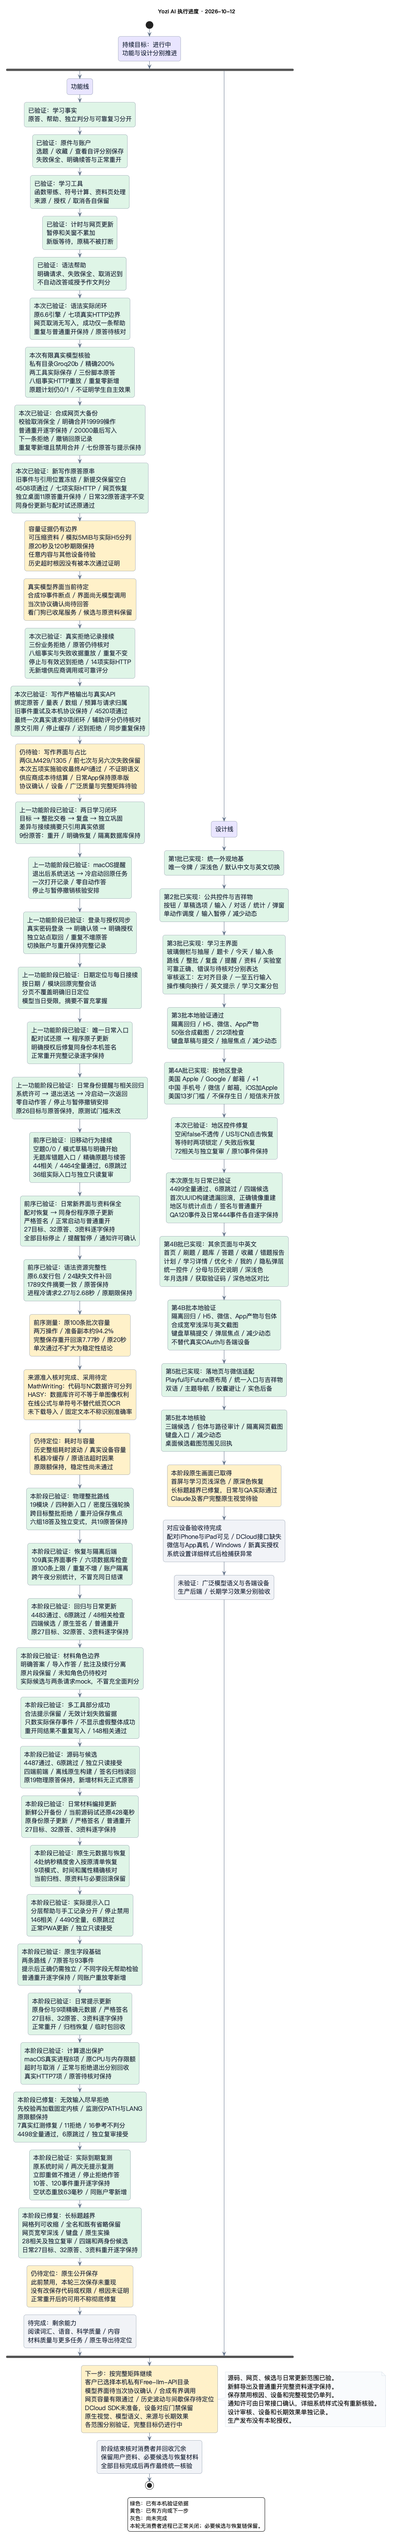
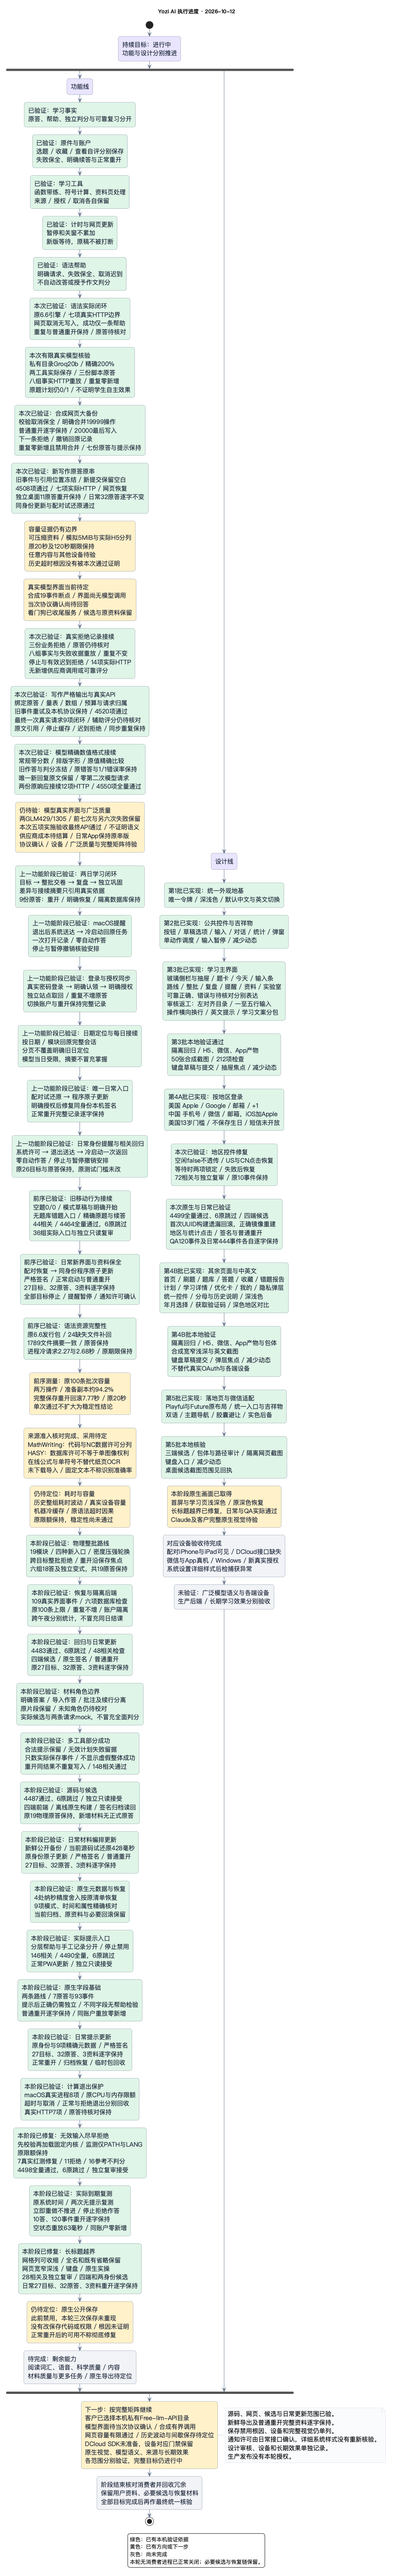
fix(validation): recognize exact model fraction formats

Changed region(s): [[0.031, 0.0, 0.4961, 0.9979], [0.4031, 0.3118, 0.7442, 0.6237], [0.5581, 0.9355, 0.8682, 0.9667]]

diff --git a/tests/unit/learning-algebra.spec.js b/tests/unit/learning-algebra.spec.js
@@ -2,6 +2,7 @@ import { beforeEach, describe, it, expect, vi } from 'vitest';
 import { createPinia, setActivePinia } from 'pinia';
 import { mount } from '@vue/test-utils';
 import fixture from '../fixtures/learning/algebra-v1.json';
+import * as algebra from '../../laf-backend/functions/_shared/learning-algebra.js';
 import {
   parseAlgebraExpression,
   createAlgebraQuestion,
@@ -29,6 +30,98 @@ const clone = (v) => JSON.parse(JSON.stringify(v));
 beforeEach(() => {
   uni.clearStorageSync();
   setActivePinia(createPinia());
+});
+describe('模型计算核对的精确格式与作答规则隔离', () => {
+  const check = (raw, unit = '') => (algebra.parseExactModelNumberCheck || algebra.parseExactNumberAnswer)(raw, unit);
+  it('真实归档模型的带分数百分数与100/3%精确相等，不要求再次生成同一数学值', () => {
+    const modelLine = '计算核对：33 1/3%';
+    const raw = modelLine.match(/(?:^|\n)计算核对[：:]\s*([^\n]+)\s*$/)[1];
+    expect(check(raw, '%')).toEqual([100, 3]);
+    expect(check(raw, '%')).toEqual(algebra.parseExactNumberAnswer('100/3%', '%'));
+    expect(algebra.parseExactNumberAnswer(raw, '%')).toBeNull();
+  });
+  it.each([
+    ['-1 1/2', [-3, 2]],
+    ['+1 1/2', [3, 2]],
+    ['0 1/2', [1, 2]],
+    ['-0 1/2', [-1, 2]],
+    ['33\u00a01/3', [100, 3]],
+    ['33\u202f1/3', [100, 3]],
+    ['2\t1 / 4', [9, 4]],
+    ['0002 01/04', [9, 4]]
+  ])('有界单值%s只在模型核对入口支持', (input, expected) => {
+    expect(check(input)).toEqual(expected);
+    expect(algebra.parseExactNumberAnswer(input)).toBeNull();
+  });
+  it.each([
+    '1 0/2',
+    '1 2/2',
+    '1 3/2',
+    '1 1/0',
+    '1 -1/2',
+    '1 1/-2',
+    '1.5 1/2',
+    '1 1.5/2',
+    '1\n1/2',
+    '1 1/2+1',
+    '1e3 1/2',
+    '33 1/3≈33.3',
+    '33 1/3%',
+    '999999999 1/999999999',
+    '9'.repeat(257)
+  ])('无单位模式拒绝歧义或超限%s', (raw) => expect(check(raw)).toBeNull());
+  it('单位必须明确，缺单位、双单位、错误百分数或缺模型核对行不补齐', () => {
+    expect(check('33 1/3', '%')).toBeNull();
+    expect(check('33 1/3%%', '%')).toBeNull();
+    expect(check('33 1/3％', '%')).toBeNull();
+    expect(check('33 1/3%', 'kg')).toBeNull();
+    expect(check('33.3%', '%')).toEqual([333, 10]);
+    expect(check('33.3%', '%')).not.toEqual([100, 3]);
+    expect('没有核对行'.match(/(?:^|\n)计算核对[：:]\s*([^\n]+)\s*$/)).toBeNull();
+  });
+  it('真正的最后单行核对入口接纳带分数，标签和值跨行、缺行或多个核对值均拒绝', () => {
+    expect(algebra.extractExactModelNumberCheck('解释。\n计算核对：33 1/3%\n')).toEqual({
+      raw: '33 1/3%',
+      exact: [100, 3]
+    });
+    expect(algebra.extractExactModelNumberCheck('解释。\r\n计算核对:100/3%\r\n')).toEqual({
+      raw: '100/3%',
+      exact: [100, 3]
+    });
+    for (const message of [
+      '计算核对：\n100/3%',
+      '计算核对：\r\n100/3%',
+      '正文计算核对：100/3%',
+      '计算核对：100/3%\n还有文字',
+      '没有核对行',
+      '计算核对：100/3%\n计算核对：100/3%',
+      '计算核对：33.3%（约）',
+      '计算核对：100/3',
+      '计算核对：\u2028100/3%',
+      '计算核对：100/3%\r后续',
+      'x'.repeat(8001)
+    ])
+      expect(algebra.extractExactModelNumberCheck(message)).toBeNull();
+  });
+  it('真实新响应33⅓%按完整字符解析，不把NFKC展开结果331⁄3当作数值', () => {
+    expect(algebra.extractExactModelNumberCheck('计算核对：33⅓%')).toEqual({
+      raw: '33⅓%',
+      exact: [100, 3]
+    });
+    expect(check('33⅓%', '%')).not.toEqual([331, 3]);
+    expect(algebra.parseExactNumberAnswer('33⅓%', '%')).toBeNull();
+    for (const [input, expected] of [
+      ['½', [1, 2]],
+      ['-½', [-1, 2]],
+      ['-33⅓', [-100, 3]],
+      ['33 ⅓', [100, 3]],
+      ['+2¾', [11, 4]],
+      ['0⅔', [2, 3]],
+      ['1⅐', [8, 7]]
+    ])
+      expect(check(input)).toEqual(expected);
+    for (const input of ['33⅓⅓', '⅓33', '33⅓/2', '⅟3', '+ ⅓', '33⁄3', '999999999⅐']) expect(check(input)).toBeNull();
+  });
 });
 describe('精确代数的独立固定验题集', () => {
   it.each(fixture.cases)('$id', (item) => {

diff --git a/laf-backend/functions/_shared/learning-algebra.js b/laf-backend/functions/_shared/learning-algebra.js
@@ -301,6 +301,82 @@ export function parseExactNumberAnswer(raw, unit = '') {
     return null;
   }
 }
+// 模型计算验收显式使用；不用于学生作答分类、判分或历史事件重放。
+// 规范带分数的符号作用于整体，仍受原精确有理数/字符上限约束。
+export function parseExactModelNumberCheck(raw, unit = '') {
+  if (
+    typeof raw !== 'string' ||
+    raw.length > ALGEBRA_LIMITS.characters ||
+    /[\r\n\u2028\u2029]/u.test(raw) ||
+    !['', '%'].includes(unit)
+  )
+    return null;
+  const plain = parseExactNumberAnswer(raw, unit);
+  if (plain) return plain;
+  let value = raw.trim();
+  if (unit) {
+    if (!value.endsWith(unit)) return null;
+    value = value.slice(0, -unit.length).trim();
+  }
+  const space = '[ \\t\\u00a0\\u202f]';
+  // 先识别单个排版分数字符；整体NFKC会把“33⅓”拼成“331⁄3”，不能用来确定数值。
+  const glyph = new RegExp('^([+-]?)(?:(\\d+)' + space + '*)?([½⅓⅔¼¾⅕⅖⅗⅘⅙⅚⅛⅜⅝⅞⅐⅑⅒])$', 'u').exec(value);
+  if (glyph) {
+    const fractions = {
+      '½': [1, 2],
+      '⅓': [1, 3],
+      '⅔': [2, 3],
+      '¼': [1, 4],
+      '¾': [3, 4],
+      '⅕': [1, 5],
+      '⅖': [2, 5],
+      '⅗': [3, 5],
+      '⅘': [4, 5],
+      '⅙': [1, 6],
+      '⅚': [5, 6],
+      '⅛': [1, 8],
+      '⅜': [3, 8],
+      '⅝': [5, 8],
+      '⅞': [7, 8],
+      '⅐': [1, 7],
+      '⅑': [1, 9],
+      '⅒': [1, 10]
+    };
+    try {
+      const result = add(exactConstant(glyph[2] || '0'), rational(...fractions[glyph[3]]));
+      return glyph[1] === '-' ? neg(result) : result;
+    } catch {
+      return null;
+    }
+  }
+  const mixed = new RegExp(`^([+-]?)(\\d+)${space}+(\\d+)${space}*/${space}*(\\d+)$`, 'u').exec(value);
+  if (!mixed) return null;
+  try {
+    const whole = exactConstant(mixed[2]),
+      numerator = exactConstant(mixed[3]),
+      denominator = exactConstant(mixed[4]);
+    if (numerator[0] <= 0 || numerator[0] >= denominator[0]) return null;
+    const result = add(whole, div(numerator, denominator));
+    return mixed[1] === '-' ? neg(result) : result;
+  } catch {
+    return null;
+  }
+}
+// 单独的最后核对行；标签和值不能跨行，也不能由正文片段或多个核对值推断。
+export function extractExactModelNumberCheck(message, unit = '%') {
+  if (typeof message !== 'string' || message.length > 8000 || /[\u2028\u2029]/u.test(message)) return null;
+  const normalized = message.replace(/\r\n/g, '\n');
+  if (normalized.includes('\r')) return null;
+  const lines = normalized.split('\n');
+  while (lines.length && /^[ \t\u00a0\u202f]*$/u.test(lines.at(-1))) lines.pop();
+  const label = /^[ \t\u00a0\u202f]*计算核对[：:]/u;
+  if (lines.filter((line) => label.test(line)).length !== 1) return null;
+  const match = /^[ \t\u00a0\u202f]*计算核对[：:][ \t\u00a0\u202f]*(.*)$/u.exec(lines.at(-1) || '');
+  if (!match) return null;
+  const raw = match[1].trim(),
+    exact = parseExactModelNumberCheck(raw, unit);
+  return exact ? { raw, exact } : null;
+}
 export function exactMaterialNumber(kind, from, to) {
   if (!['difference', 'growth_percent', 'share_percent'].includes(kind)) fail();
   if (![from, to].every((value) => typeof value === 'string' && /^[+-]?\d{1,9}(?:\.\d{1,6})?$/.test(value)))

diff --git a/tests/unit/conversation-learning.spec.js b/tests/unit/conversation-learning.spec.js
@@ -430,6 +430,66 @@ describe('对话学习的事实、统计与纠错', () => {
     expect(gradeAnswer(question, response)).toMatchObject({ status: 'reliable', outcome });
     expect(classifyResponse(response, question)).toBe('answer');
   });
+  it.each(['material-objective-v2', 'material-objective-v3'])(
+    '模型核对格式不改变%s的作答、固定判分与旧事件重放',
+    (contract) => {
+      start();
+      apply('material.add', { material: parsePastedMaterial('甲: 3\n乙: 4', 'fixed-grade') });
+      focus(
+        createMaterialObjectiveQuestion('legacy-exact-check', state.materials[0], {
+          contract,
+          segmentId: 'fixed-grade_1',
+          kind: 'growth_percent',
+          from: '甲',
+          to: '乙'
+        })
+      );
+      const question = state.questions[0];
+      const expectedPending = { status: 'pending', outcome: null, basis: 'unsupported_expression_or_unit' };
+      expect(gradeAnswer(question, '33 1/3%')).toEqual(expectedPending);
+      expect(classifyResponse('33 1/3%', question)).toBe('clarify');
+      expect(gradeAnswer(question, '100/3%')).toEqual({
+        status: 'reliable',
+        outcome: 'correct',
+        basis: contract,
+        evaluator: 'deterministic-exact-v1',
+        authority: 'executable'
+      });
+      expect(gradeAnswer(question, '33.333333%')).toEqual({
+        status: 'reliable',
+        outcome: 'wrong',
+        basis: contract,
+        evaluator: 'deterministic-exact-v1',
+        authority: 'executable'
+      });
+      answer('33 1/3%', 'legacy-mixed-answer', { explicit: true });
+      expect(state.attempts[0].answer).toBe('33 1/3%');
+      expect(state.attempts[0].grade).toEqual(expectedPending);
+      expect(summarizeLearning(state).first).toMatchObject({ numerator: 0, denominator: 0 });
+      let replay = emptyLearningState('u1', 'Asia/Shanghai');
+      for (const event of state.events)
+        replay = applyLearningOperation(replay, normalizePrivateSyncOperation(event)).state;
+      expect(replay.attempts[0].grade).toEqual(expectedPending);
+      expect(replay.attempts).toEqual(state.attempts);
+      expect(summarizeLearning(replay).first).toMatchObject({ numerator: 0, denominator: 0 });
+      expect(replay.reviews).toEqual([]);
+    }
+  );
+  it('历史v1保持原数值容差规则，不因模型专用精确核对入口改变', () => {
+    const question = createMaterialObjectiveQuestion(
+      'legacy-tolerance',
+      parsePastedMaterial('甲: 1\n乙: 3', 'legacy-tolerance'),
+      {
+        contract: 'material-objective-v1',
+        segmentId: 'legacy-tolerance_1',
+        kind: 'growth_percent',
+        from: '甲',
+        to: '乙'
+      }
+    );
+    expect(gradeAnswer(question, '200.00000001%')).toMatchObject({ status: 'reliable', outcome: 'correct' });
+    expect(gradeAnswer(question, '200.001%')).toMatchObject({ status: 'reliable', outcome: 'wrong' });
+  });
   it.each(['25', '25％', '25%或20%', '25/0%', '25+0%', '1e2%', 'require("fs")%', '9'.repeat(300) + '%'])(
     '占比不猜百分号或执行表达式：%s',
     (response) => {

diff --git a/docs/13-DEVELOPMENT-PLAN.md b/docs/13-DEVELOPMENT-PLAN.md
@@ -42,7 +42,13 @@
 4. 提醒至少分别记录设置成功、到期触发、平台接纳、真实送达与点击返回；不把页内提示或API返回冒充关闭应用后的系统通知。平台申请/权限/设备实际不可用只阻塞对应验收，其余工作继续。
 5. 同步受影响的01/03/04/05/06/07合同、12变更、本计划与既有PlantUML进度图；每个独立阶段用业务语言汇报结果、依据和剩余项。完成矩阵保留未验证项，完整目标未满足时继续进行，不以测试数量或构建全绿替代闭环。
 
-## 最新阶段的费曼汇报：写作输出约束与真实API闭环
+## 最新阶段的费曼汇报：精确数值格式与原响应接续
+
+模型给出的常规带分数和排版分数可以准确表示同一个占比，原验收却将其当作格式失败。现用明确、有界的模型核对入口读取该数值，并继续与材料重建结果比较；学生作答规则和旧记录没有变化。缺行、多值、跨行或舍入仍拒绝，不由模型文字推断掌握。
+
+一份旧回复与本次唯一新Groq回复分别通过同一原答/提示/独立字段流程接续及12项真实HTTP保持，原错答与首答错误率1/1不变。新请求原CLI的排版字符拒绝保留，改后消费同一回复，没有再次生成；4550项全量通过、6项原跳过，供应商费用待结算。此阶段只关闭有限数值格式与结果接续，真实产品界面、对应设备和广泛教学效果仍按矩阵保留。依据见[本阶段变更](12-CHANGELOG.md#2026-10-12模型精确数值格式与原响应接续)与[既有回执](../tmp/stage1-mobile-20261011/verification.md)。
+
+### 前序写作输出约束与真实API闭环
 
 新明确反馈只评阅当前已保存原答，格式绑定编号和证据数组；原宿主继续核对分值、原答范围和停止，不把模型分数升级可靠掌握。旧请求、原哈希/缓存和本机协议保持；新模型参数先进入实际预算与调用记录。
 
@@ -178,23 +184,23 @@
 
 下表按最初需求逐项核对，避免把“本地功能候选”提前标成目标完成。隔离测试、真实服务、设备与公开发布分别记录；真实价格和权限未定项保留可配置/关闭，不据此停止其余实现。
 
-| 需求范围          | 当前实现/证据                                                                                                                                                                                                                                                                                                                                                                                                                            | 仍需完成                                                                                                                                                    |
-| ----------------- | ---------------------------------------------------------------------------------------------------------------------------------------------------------------------------------------------------------------------------------------------------------------------------------------------------------------------------------------------------------------------------------------------------------------------------------------- | ----------------------------------------------------------------------------------------------------------------------------------------------------------- |
-| 产品定位/免费边界 | 对话为主、BYOK/本地与平台权益分账；核心记录/错题/计划不受会员门禁                                                                                                                                                                                                                                                                                                                                                                        | 当前平台模型服务及生产额度规则未开放；不代订正式价格                                                                                                        |
-| 仓库审计/复用     | 既有工作树与暂存区保全、统一 reducer、旧答题/FSRS/质量工具复用、文档索引21份                                                                                                                                                                                                                                                                                                                                                             | 后续每批扫描增量；依赖安全按当前全量审计核对（本轮补齐工具链适配）；托管依赖PR未验证                                                                        |
-| 连续对话/跨入口   | 自动作答/错题/计划/统计、帮助/收据、防串题及原答/明确动作边界；50条消息窗口/分页/大恢复及本机两万操作保存/同步；本次可压缩合成大备份的网页取消/20000上限/撤销/重复及重开通过；新版字段实际同步、最终H5原文流程与原冷启动13项安全基线，以及Mac候选系统文件/原答/字段流程与正常退出重开通过；字段先修17项实际HTTP与66事件网页刷新保持；新Mac基础/帮助/独立字段变式及93事件重开、实际到期复测后120事件重开保持；原Mac文件/阅读/字段流程保留 | 任意内容与对应设备容量、多设备实际冲突、冷归档及长期更新稳定性；前轮冷启动失败和持续性能原因保留                                                            |
-| 动态教学          | 12种方法合同；实际教学/后续关联、用户教法保护、受阻换法；原答差异/二次候选先修；v3字面错答的字段对应基础及原资料独立复测                                                                                                                                                                                                                                                                                                                 | 更广具体先修和独立学科质量、12方法对不同题型的适用性与长期效果；有限字段基础不能推断认知错因                                                                |
-| 语言/参考/写作    | 六体裁、原创语境词义与独立写句/明日任务、两许可片段；论证和当前托福学术讨论/邮件的完整原文、帮助/独立/pending/原时区复测及最新/校对/停止/来源保护；两端正常重开与原记录保持；12原创句子有界组合及提示/独立/未来/停止、当前计划入口修复与回归/构建                                                                                                                                                                                        | 许可一致的成套范文/实际评分、完整听说读写与更广句子任务、更多中文/不同基础的可靠语义、自然跨天/长期效果                                                     |
-| PDF/纸质材料      | 分段文本/本机识别、来源/角色/页图/版本、不确定校对、取消/重试/去重                                                                                                                                                                                                                                                                                                                                                                       | 真实手写/复杂公式和含图集、移动Apple桥接、微信代码已接但授权网络/文件真机待验，App保护连接/系统文件源码已接，完整SDK装配与设备未通过                        |
-| 工具层            | 9项受限工具及宿主教学交付；结构/权限/调用/超时/幂等；macOS SymPy真实进程限额/取消、7项实际HTTP、前置校验与11项拒绝、16参考保持；有限数学工具不运行代码                                                                                                                                                                                                                                                                                   | 更广独立数学规则/图形与变式；其他工具及完整界面/设备的超时/取消链路、Linux硬内存限制、合法冷启动稳定性和更广攻击评测                                        |
-| 学习事实/判分     | 题目版本、原答/帮助、评分/完整原答阅读/更正、首答/变式；密度四任务、帮助/独立/原时区未来与双端完整重开；来源绑定的字面/精确数量、有界代数；v3逐行校验及字段先修，最新17项实际HTTP/网页刷新与旧v1/v2冻结                                                                                                                                                                                                                                  | 主观引用/分值仍AI辅助；一般符号/多变量/无理零点、复杂条件和学科语义；对应设备及更广原生诊断待验                                                             |
-| 统计/复习         | 分子分母、partial单列、计划版本、时区、可解释状态；可靠到期复测才推进FSRS；Mac实际两次到期独立复测、立即重做不推进及停止保护通过，10答/120事件普通重开与重放保持                                                                                                                                                                                                                                                                         | 离线跨周/时区变化的真实多设备、长期教学/调度效果未证明                                                                                                      |
-| 多模型/连接       | 指定provider、能力和授权、密钥保险库、SSRF；Node连接器鉴权/预算/幂等；App云教学原生分块、能力门禁、55组宿主检查与移动SDK内核编译；私有目录远程Groq有限200%核对、两条工具收据及八组事实HTTP重放通过；新写作严格格式与原答引用、同步/停止9项API验收通过                                                                                                                                                                                    | 写作真实产品界面与占比待验（当前协议确认未收到）；API通过不替代模型评语/主观分值质量；其他供应商/视觉/本地推理、完整DCloud装配及微信/App设备网络/流式仍待验 |
-| 费用/订阅         | 成本与权益分账、预留/结算/取消、周权益和订阅沙箱、收费默认关闭                                                                                                                                                                                                                                                                                                                                                                           | 真实价格/续订升降级/退款渠道与成本结算未验收；未开展真实收费                                                                                                |
-| 安全/隐私/迁移    | 用户隔离、退出保留、明确迁移、备份重放、冲突归档、云副本及教学缓存清除                                                                                                                                                                                                                                                                                                                                                                   | 单资料本机/解析器回执/同步墓碑已实现；历史原件定位、设备缓存及运营备份清除范围需部署验证；公开服务当前规则与授权审查                                        |
-| A—E连续增量       | 可运行单元已记录至11/12，已恢复本地 UI/功能开发和自主免费选型                                                                                                                                                                                                                                                                                                                                                                            | 完整需求完成前目标保持进行中，不仅以本地构建定义交付                                                                                                        |
-| 固定质量/12场景   | 全局301项固定质量保留；另有七方向字段基础专项13项，相关10文件/252项、17项实际HTTP及网页证据；原流式/缓存隐私与回归保留                                                                                                                                                                                                                                                                                                                   | 更广学科/基础/攻击/手写含图、真实结构成功率/引用/延迟/完整成本/自动独立语义评测；有限样例不代替语义与长期效果                                               |
-| 最终交付/发布     | 实际代码、兼容记录、合同/索引、能力矩阵和门禁；新字段先修三端源码审计/网页通过；最新日常Mac同身份程序更新、本机签名、恢复/正常重开与退出提醒已验                                                                                                                                                                                                                                                                                         | 正式发行签名公证与Windows、公共题源/资料、受保护生产、微信/App设备、完整release:gate和公开发布                                                              |
+| 需求范围          | 当前实现/证据                                                                                                                                                                                                                                                                                                                                                                                                                            | 仍需完成                                                                                                                                                            |
+| ----------------- | ---------------------------------------------------------------------------------------------------------------------------------------------------------------------------------------------------------------------------------------------------------------------------------------------------------------------------------------------------------------------------------------------------------------------------------------- | ------------------------------------------------------------------------------------------------------------------------------------------------------------------- |
+| 产品定位/免费边界 | 对话为主、BYOK/本地与平台权益分账；核心记录/错题/计划不受会员门禁                                                                                                                                                                                                                                                                                                                                                                        | 当前平台模型服务及生产额度规则未开放；不代订正式价格                                                                                                                |
+| 仓库审计/复用     | 既有工作树与暂存区保全、统一 reducer、旧答题/FSRS/质量工具复用、文档索引21份                                                                                                                                                                                                                                                                                                                                                             | 后续每批扫描增量；依赖安全按当前全量审计核对（本轮补齐工具链适配）；托管依赖PR未验证                                                                                |
+| 连续对话/跨入口   | 自动作答/错题/计划/统计、帮助/收据、防串题及原答/明确动作边界；50条消息窗口/分页/大恢复及本机两万操作保存/同步；本次可压缩合成大备份的网页取消/20000上限/撤销/重复及重开通过；新版字段实际同步、最终H5原文流程与原冷启动13项安全基线，以及Mac候选系统文件/原答/字段流程与正常退出重开通过；字段先修17项实际HTTP与66事件网页刷新保持；新Mac基础/帮助/独立字段变式及93事件重开、实际到期复测后120事件重开保持；原Mac文件/阅读/字段流程保留 | 任意内容与对应设备容量、多设备实际冲突、冷归档及长期更新稳定性；前轮冷启动失败和持续性能原因保留                                                                    |
+| 动态教学          | 12种方法合同；实际教学/后续关联、用户教法保护、受阻换法；原答差异/二次候选先修；v3字面错答的字段对应基础及原资料独立复测                                                                                                                                                                                                                                                                                                                 | 更广具体先修和独立学科质量、12方法对不同题型的适用性与长期效果；有限字段基础不能推断认知错因                                                                        |
+| 语言/参考/写作    | 六体裁、原创语境词义与独立写句/明日任务、两许可片段；论证和当前托福学术讨论/邮件的完整原文、帮助/独立/pending/原时区复测及最新/校对/停止/来源保护；两端正常重开与原记录保持；12原创句子有界组合及提示/独立/未来/停止、当前计划入口修复与回归/构建                                                                                                                                                                                        | 许可一致的成套范文/实际评分、完整听说读写与更广句子任务、更多中文/不同基础的可靠语义、自然跨天/长期效果                                                             |
+| PDF/纸质材料      | 分段文本/本机识别、来源/角色/页图/版本、不确定校对、取消/重试/去重                                                                                                                                                                                                                                                                                                                                                                       | 真实手写/复杂公式和含图集、移动Apple桥接、微信代码已接但授权网络/文件真机待验，App保护连接/系统文件源码已接，完整SDK装配与设备未通过                                |
+| 工具层            | 9项受限工具及宿主教学交付；结构/权限/调用/超时/幂等；macOS SymPy真实进程限额/取消、7项实际HTTP、前置校验与11项拒绝、16参考保持；有限数学工具不运行代码                                                                                                                                                                                                                                                                                   | 更广独立数学规则/图形与变式；其他工具及完整界面/设备的超时/取消链路、Linux硬内存限制、合法冷启动稳定性和更广攻击评测                                                |
+| 学习事实/判分     | 题目版本、原答/帮助、评分/完整原答阅读/更正、首答/变式；密度四任务、帮助/独立/原时区未来与双端完整重开；来源绑定的字面/精确数量、有界代数；v3逐行校验及字段先修，最新17项实际HTTP/网页刷新与旧v1/v2冻结                                                                                                                                                                                                                                  | 主观引用/分值仍AI辅助；一般符号/多变量/无理零点、复杂条件和学科语义；对应设备及更广原生诊断待验                                                                     |
+| 统计/复习         | 分子分母、partial单列、计划版本、时区、可解释状态；可靠到期复测才推进FSRS；Mac实际两次到期独立复测、立即重做不推进及停止保护通过，10答/120事件普通重开与重放保持                                                                                                                                                                                                                                                                         | 离线跨周/时区变化的真实多设备、长期教学/调度效果未证明                                                                                                              |
+| 多模型/连接       | 指定provider、能力和授权、密钥保险库、SSRF；Node连接器鉴权/预算/幂等；App云教学原生分块、能力门禁、55组宿主检查与移动SDK内核编译；私有目录远程Groq有限200%核对、两条工具收据及八组事实HTTP重放通过；新写作严格格式与原答引用、同步/停止9项API验收通过；占比精确带分数/排版字形及两份真实返回接续12项HTTP通过                                                                                                                             | 写作与数值的真实产品界面待验（当前协议确认未收到）；有限数值/格式通过不替代模型评语/广泛质量；其他供应商/视觉/本地推理、完整DCloud装配及微信/App设备网络/流式仍待验 |
+| 费用/订阅         | 成本与权益分账、预留/结算/取消、周权益和订阅沙箱、收费默认关闭                                                                                                                                                                                                                                                                                                                                                                           | 真实价格/续订升降级/退款渠道与成本结算未验收；未开展真实收费                                                                                                        |
+| 安全/隐私/迁移    | 用户隔离、退出保留、明确迁移、备份重放、冲突归档、云副本及教学缓存清除                                                                                                                                                                                                                                                                                                                                                                   | 单资料本机/解析器回执/同步墓碑已实现；历史原件定位、设备缓存及运营备份清除范围需部署验证；公开服务当前规则与授权审查                                                |
+| A—E连续增量       | 可运行单元已记录至11/12，已恢复本地 UI/功能开发和自主免费选型                                                                                                                                                                                                                                                                                                                                                                            | 完整需求完成前目标保持进行中，不仅以本地构建定义交付                                                                                                                |
+| 固定质量/12场景   | 全局301项固定质量保留；另有七方向字段基础专项13项，相关10文件/252项、17项实际HTTP及网页证据；原流式/缓存隐私与回归保留                                                                                                                                                                                                                                                                                                                   | 更广学科/基础/攻击/手写含图、真实结构成功率/引用/延迟/完整成本/自动独立语义评测；有限样例不代替语义与长期效果                                                       |
+| 最终交付/发布     | 实际代码、兼容记录、合同/索引、能力矩阵和门禁；新字段先修三端源码审计/网页通过；最新日常Mac同身份程序更新、本机签名、恢复/正常重开与退出提醒已验                                                                                                                                                                                                                                                                                         | 正式发行签名公证与Windows、公共题源/资料、受保护生产、微信/App设备、完整release:gate和公开发布                                                                      |
 
 至少12个验收场景对应：1无资料/无模型（本地页面通过）；2角色/歧义（本机PDF有限通过，手写待验）；3帮助/修正/首次幂等（本轮回归）；4统计10/6和6/2（已有真实H5）；5动态难度/抽象（有限挑战/类比，广泛效果未证明）；6明确意愿/停止/画像修正（代码/隔离）；7变式独立检验（有限算例）；8跨入口/网络/同步（代码、本机HTTP和H5，设备规模待验）；9模型/密钥/共享（有限Gemini历史证据，本地真实/设备待验）；10权益/退款（隔离沙箱，不收费）；11攻击/SSRF/越权（隔离，继续扩展）；12迁移/回滚/旧门禁（代码/隔离，生产恢复待授权与可靠前态）。
 

diff --git a/docs/12-CHANGELOG.md b/docs/12-CHANGELOG.md
@@ -1,5 +1,15 @@
 # 重要变更
 
+## 2026-10-12：模型精确数值格式与原响应接续
+
+归档模型已给出 `33 1/3%`，验收脚本却沿学生作答解析器将其误拒。现显式模型核对入口识别常规带分数及固定排版分数字符，仍使用原安全精确运算、256字符/有理数上限和明确单位；无近似、任意表达式或整段NFKC展开。新的最后核对行入口同时拒绝标签/值跨行、正文片段、重复核对、多值、后续文字与缺单位，材料答案仍由原来源规则重建。
+
+原 `parseExactNumberAnswer` 函数逐字保持，辅助入口未被作答分类、判分或同步/领域层引用。旧v2/v3带分数仍pending/clarify、100/3%正确、舍入值错误；原v1容差固定期望与事件重放分别通过。9条正例先在旧路径失败；最终相关2文件157项通过、全量266文件4550项通过，1文件/6项原Mongo跳过，43.80秒。中间全量4550测试通过但mobile浏览器关闭钩子超时，原10秒未改；单独26项与完整再跑均通过，未残留自有浏览器进程。新增测试最初误用另一describe的材料助手，修正为现有解析器；接续探针将首答错误率误当正确率、误用提示事件/错误字段，均按实际旧合同修正，没有改业务规则。
+
+唯一新请求沿原Groq20b/1000/默认推理/JSON模式，实际得到 `计算核对：33⅓%`，2941 tokens（455输出含359推理）；CLI原失败保留。补齐精确字符映射后继续同一返回，没有重试、替换或改写模型文本。旧回复与本次回复各自接续两条真实宿主工具收据、提示后100/3%修正及无提示25%独立字段变式，3原答/15事件、原错答及首答错误率1/1保持；字形不当“331/3”读取。
+
+两份完整接续在实际JWT/隔离Mongo经12项HTTP核对八类数组/用户上下文、重复版本不变、停止后的合法提示被原PRECONDITION拒绝且整批不写、另一账号空记录及缺鉴权拒绝，模型调用零新增。新API账仍供应商费用pending，不由平台0推断免费；数字通过不称模型广泛教学语义、真实产品界面或设备通过。日常App、用户资料和必要回滚本轮未操作，原生候选和待协议确认的网页断点保持。完整目标继续推进。[既有回执](../tmp/stage1-mobile-20261011/verification.md)。
+
 ## 2026-10-12：写作输出约束与真实API闭环
 
 新明确云反馈绑定已保存原答/量表，核对过的自带Groq20b使用严格JSON格式、low推理与2000输出上限；策略、schema摘要及完整请求输入上界先进入实际预留和请求归属，原保存档位、普通讲解、其他型号及本机协议保持。新请求保存输出版本，旧请求重试不补标记；原哈希、缓存、恢复与完整原答不改。新严格路径不支持流式时明确拒绝，不自动回退。

diff --git a/docs/08C-SCRIPTS-REFERENCE.md b/docs/08C-SCRIPTS-REFERENCE.md
@@ -4,6 +4,8 @@
 
 ## 当前候选与本机资源
 
+模型数值核对沿 `verification.json.numericModelCheckFix`。既有 `verify-learning-live.mjs` 的数值任务仍要求唯一的最后单行“计算核对：值”，单位明确并与所给字段重建的精确值相等；显式验收入口支持规范带分数与固定排版分数字符，缺行、跨行、额外文字、多值、舍入或超限仍拒绝。学生作答解析与旧判分不调用此入口。旧 `33 1/3%` 和本次唯一真实回复 `33⅓%` 分别接续，原CLI拒绝和原响应保留；无需再次请求模型，两个接续状态经12项真实HTTP重放/重复/停止/鉴权核对。此流程复用已验 `backend-writing-strict`；其作答规则与本轮根源码保持原定义，不为脚本格式变化重建/安装日常App。
+
 当前写作输出实现沿同一 `verification.json.writingOutputFix`，隔离后端为 `backend-writing-strict`，五次单请求及最终9项API验收保留在原 `free-catalog-zhipu-20261012/groq-writing-strict*`。临时仪表仅保存预定义安全词汇/摘要，已逐字恢复编译产物并回收临时副本；密钥仍只由既有AST适配在内存取用。新版 `--tasks writing` 显式发送输出合同与原答绑定，普通任务/旧请求保持原路径；每次上限1，无自动回退。真实网页候选已按58704接口重建，仍等待当次协议确认，不启动无人使用的服务或推断已经登录。原生归档和日常程序仍为原串已验版本。
 
 免费模型诊断本次沿 `verification.json.freeCatalogContinuation.writingDiagnostic`，五组原答/账与脱敏诊断保留在既有 `free-catalog-zhipu-20261012/groq-writing-{diagnostic,low,low-2000,unique-quote,array-quote}`，各一请求、无自动回退。临时后端已回收，镜像 `verify-learning-live.mjs` 已逐字还原；2000/low或提示澄清只属试验，当前 `backend-original-answer` 与日常版本未采用。三份拒绝记录的14项零模型HTTP重放/重复/停止另有回执，不能称模型评分通过。复用新的预算/推理策略或JSON schema前，需实现实际预留/配置与请求归属及未改变其他模式的校验。

diff --git a/docs/14-MODEL-PRIVACY-COST.md b/docs/14-MODEL-PRIVACY-COST.md
@@ -1,5 +1,11 @@
 # 模型、隐私与费用合同
 
+## 精确数值核对与真实结果接续（2026-10-12）
+
+本轮占比仅一次Groq20b供应商请求，仍按原1000输出/默认推理、原JSON模式与单次预算，不改变模型、网络、费用或调用保护。实际返回 `33⅓%`，总2941 tokens、455输出含359推理；原CLI因未知排版字符拒绝的记录保留。补齐明确字符映射后消费同一份实际返回，精确值为100/3，继续经原工具校验、原答/提示/变式和真实同步验证，没有第二次生成。当前账received/completed只证明供应商返回；两条成功教学收据与12项HTTP保持另有证据。actualCost=null、costStatus=pending，平台0不替代供应商免费或已结账。
+
+此核对入口仅用于模型验收，原作答解析、判分、材料重建和事件重放不变；两种旧精确合同仍把带分数作答留待澄清/核对，旧v1容差继续冻结。独立数值核对不证明模型其余教学语义、官方题源、学习效果或产品界面。旧模型文本、当前原始回复、原错答和失败事实保留；同源模拟的修正与另一字段独立题仍由原可执行规则判分，不把数值转换回写用户原答或可靠依据。
+
 ## 新写作输出约束的实际验收（2026-10-12）
 
 新明确云反馈绑定完整原答和量表，只有核对过的自带Groq20b端点采用严格JSON格式、low推理及原允许2000上限。实际预留保存同一策略、格式摘要与含schema的输入字节上界，旧配置哈希/请求及本机协议保持。格式不取代半分/满分、原答范围、疑义、授权和停止校验；非法生成结果不进成功缓存，真正保存仍由宿主核对。
